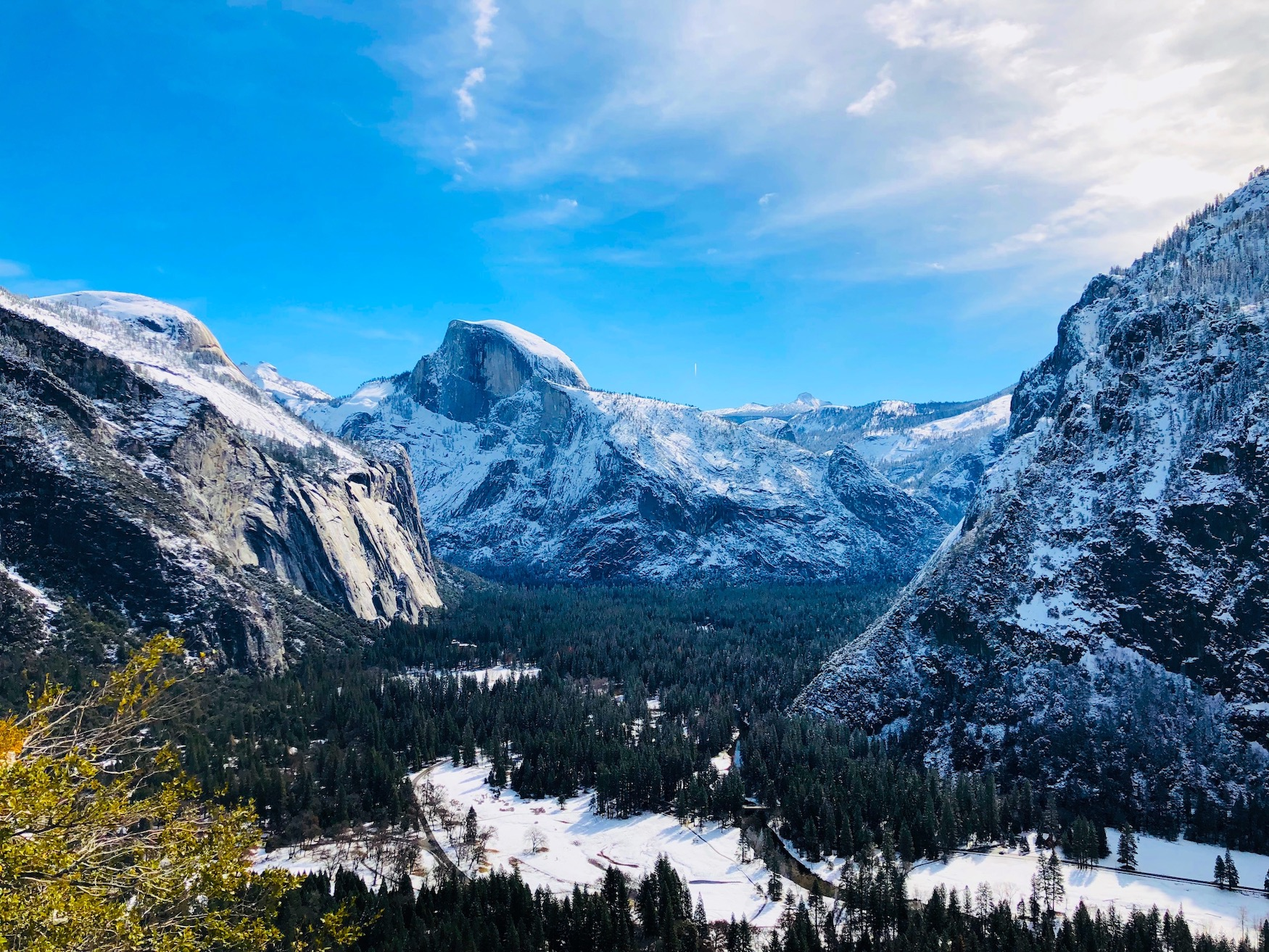
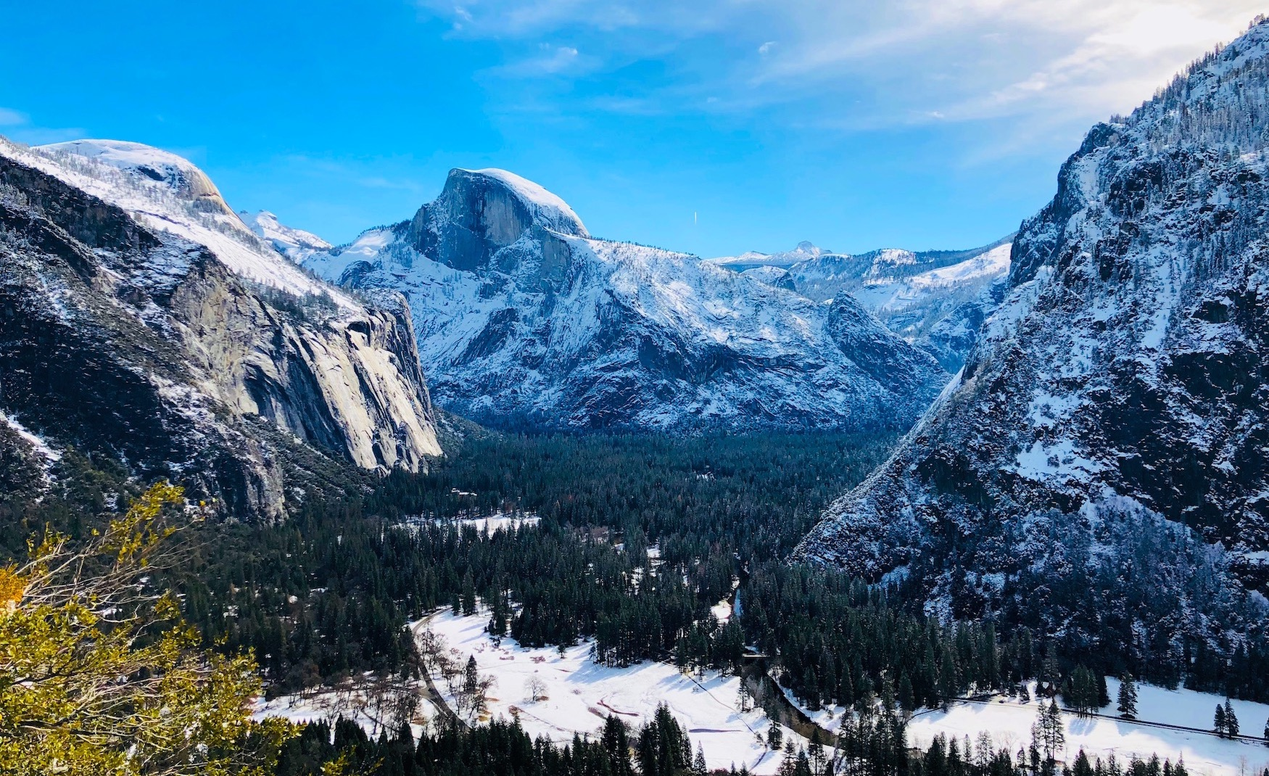
Update personal pictures and preemptively the copyright for 2020

diff --git a/index.html b/index.html
@@ -75,7 +75,7 @@
     					<!-- About -->
     						<article id="about" class="active" style="display: block;">
     							<h2 class="major">About</h2>
-                                <p>In high school, I spent the majority of my time rowing, playing the violin, and Boy Scouting. Now in college, I am most involved in the GT iOS Club, the Delta Chi Fraternity, the college of computing as a Teaching Assistant, Georgia Tech Student Ambassadors, and Omicron Delta Kappa leadership honor society.</p>
+                                <p>In high school, I spent the majority of my time rowing, playing the violin, and Boy Scouting. Now in college, I am most involved in the GT iOS Club, the Delta Chi Fraternity, the College of Computing as a teaching assistant, Georgia Tech Student Ambassadors, and Omicron Delta Kappa leadership honor society.</p>
 
                                 <br>
                                 <h3 class="major">Professional Interests</h3>
@@ -93,7 +93,7 @@
                                 <!-- Images -->
                                 <div class="row">
                                     <span class="6u 12u$(xsmall) work-item">
-                                        <img class="image fit thumb" src="images/pic_yosemite.jpg" alt="" />
+                                        <img class="image fit thumb" src="images/pic_tahoe.jpg" alt="" />
                                     </span>
                                     <span class="6u 12u$(xsmall) work-item">
                                         <img class="image fit thumb" src="images/pic_santacruz.jpg" alt="" />
@@ -104,20 +104,20 @@
                                         <img class="image fit thumb" src="images/pic_gtdx.jpg" alt="" />
                                     </span>
                                     <span class="6u 12u$(xsmall) work-item">
-                                        <img class="image fit thumb" src="images/pic_buzz.jpg" alt="" />
+                                        <img class="image fit thumb" src="images/pic_ramblein.jpg" alt="" />
                                     </span>
                                 </div>
                                 <div class="row">
                                     <span class="6u 12u$(xsmall) work-item">
-                                        <img class="image fit thumb" src="images/pic_family.jpg" alt="" />
+                                        <img class="image fit thumb" src="images/pic_family-foxtail.jpg" alt="" />
                                     </span>
                                     <span class="6u 12u$(xsmall) work-item">
-                                        <img class="image fit thumb" src="images/pic_wwdc.jpg" alt="" />
+                                        <img class="image fit thumb" src="images/pic_bigsur-coffee.jpg" alt="" />
                                     </span>
                                 </div>
                                 <div class="row">
                                     <span class="6u 12u$(xsmall) work-item">
-                                        <img class="image fit thumb" src="images/pic_hiking.jpg" alt="" />
+                                        <img class="image fit thumb" src="images/pic_hbs-svmp.jpg" alt="" />
                                     </span>
                                     <span class="6u 12u$(xsmall) work-item">
                                         <img class="image fit thumb" src="images/pic_football.jpg" alt="" />
@@ -125,10 +125,10 @@
                                 </div>
                                 <div class="row">
                                     <span class="6u 12u$(xsmall) work-item">
-                                        <img class="image fit thumb" src="images/pic_ap01.jpg" alt="" />
+                                        <img class="image fit thumb" src="images/pic_ap01-fiesta.jpg" alt="" />
                                     </span>
                                     <span class="6u 12u$(xsmall) work-item">
-                                        <img class="image fit thumb" src="images/pic_clough.jpg" alt="" />
+                                        <img class="image fit thumb" src="images/pic_apple-park.jpg" alt="" />
                                     </span>
                                 </div>
 
@@ -532,7 +532,7 @@ print 'It took ' + i + ' iterations to sort the deck.';</code></pre>
                             <li><a href="mailto:cliffpanos@icloud.com" class="icon fa-envelope"><span class="label">Mail</span></a></li>
                             <li><a href="https://www.apple.com" class="icon fa-apple"><span class="label">Apple</span></a></li>
                         </ul>
-						<p class="copyright">&copy; 2019 Clifford Panos. Design: <a href="https://html5up.net">HTML5 UP</a></p>
+						<p class="copyright">&copy; 2020 Clifford Panos. Design: <a href="https://html5up.net">HTML5 UP</a></p>
 					</footer>
 
 			</div>
